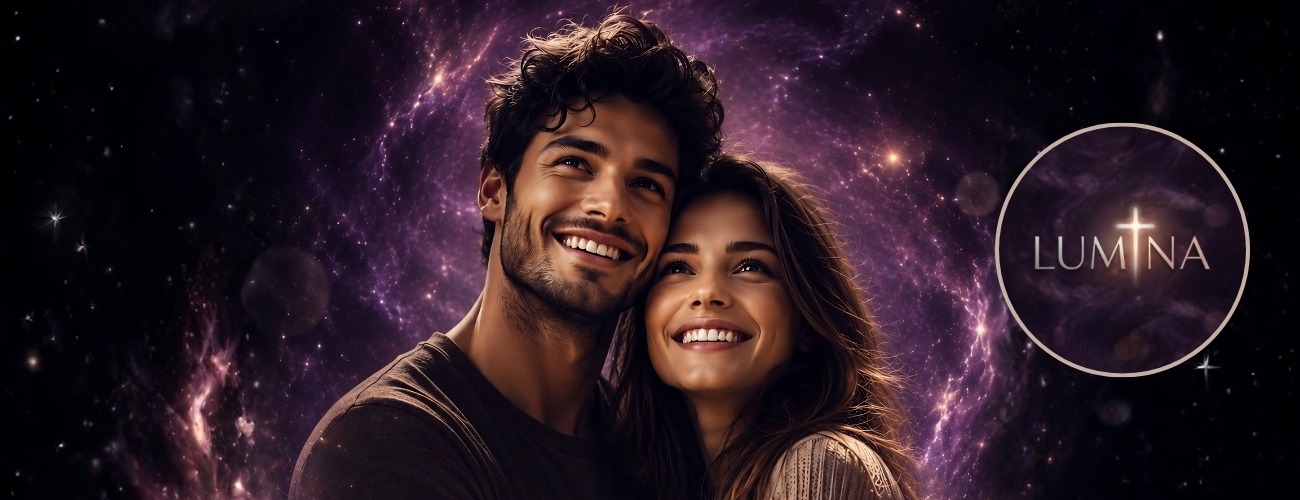
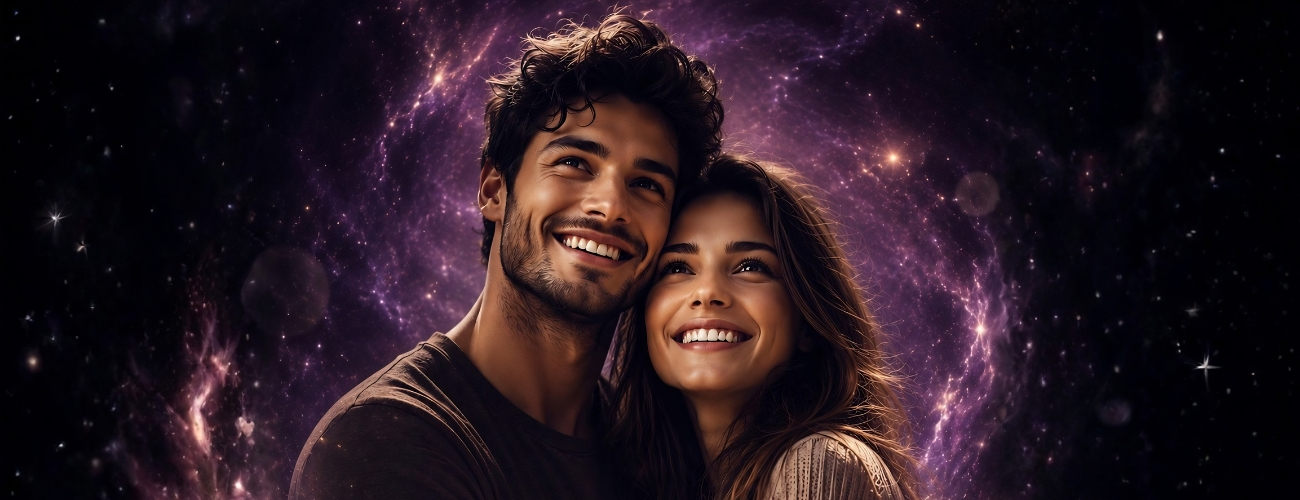
feat(lumina): update official LUMINA background for hero section and all default profile covers

Changed region(s): [[0.7385, 0.24, 0.9846, 0.75]]

diff --git a/lumina.html b/lumina.html
@@ -365,7 +365,7 @@
         .hero-bg {
             position: absolute;
             inset: 0;
-            background: #0b1838 url('lumina_hero_bg.jpg?v=20260821_2') center center / cover no-repeat;
+            background: #0b1838 url('lumina_hero_bg.jpg?v=20260822') center center / cover no-repeat;
             z-index: 0;
             border-radius: 0;
             overflow: hidden;
@@ -2266,7 +2266,7 @@
     <!-- ══════════ HERO SECTION ══════════ -->
     <header class="hero-section" id="heroHeader" onclick="handleHeroBackgroundClick(event)">
         <div class="hero-bg" id="heroBg" onclick="toggleHeroSearch(event, true)">
-            <img src="lumina_hero_bg.jpg?v=20260821_2" alt="LUMINA Tło" fetchpriority="high" loading="eager" decoding="async" onerror="this.onerror=null; this.src='tło profilowe LUMINA  (1300 x 500 px) (2).jpg';">
+            <img src="lumina_hero_bg.jpg?v=20260822" alt="LUMINA Tło" fetchpriority="high" loading="eager" decoding="async" onerror="this.onerror=null; this.src='lumina_bg_official.jpg';">
         </div>
         <div class="hero-overlay" id="heroOverlay" onclick="toggleHeroSearch(event, true)"></div>
         <div class="hero-content" id="heroContent">
